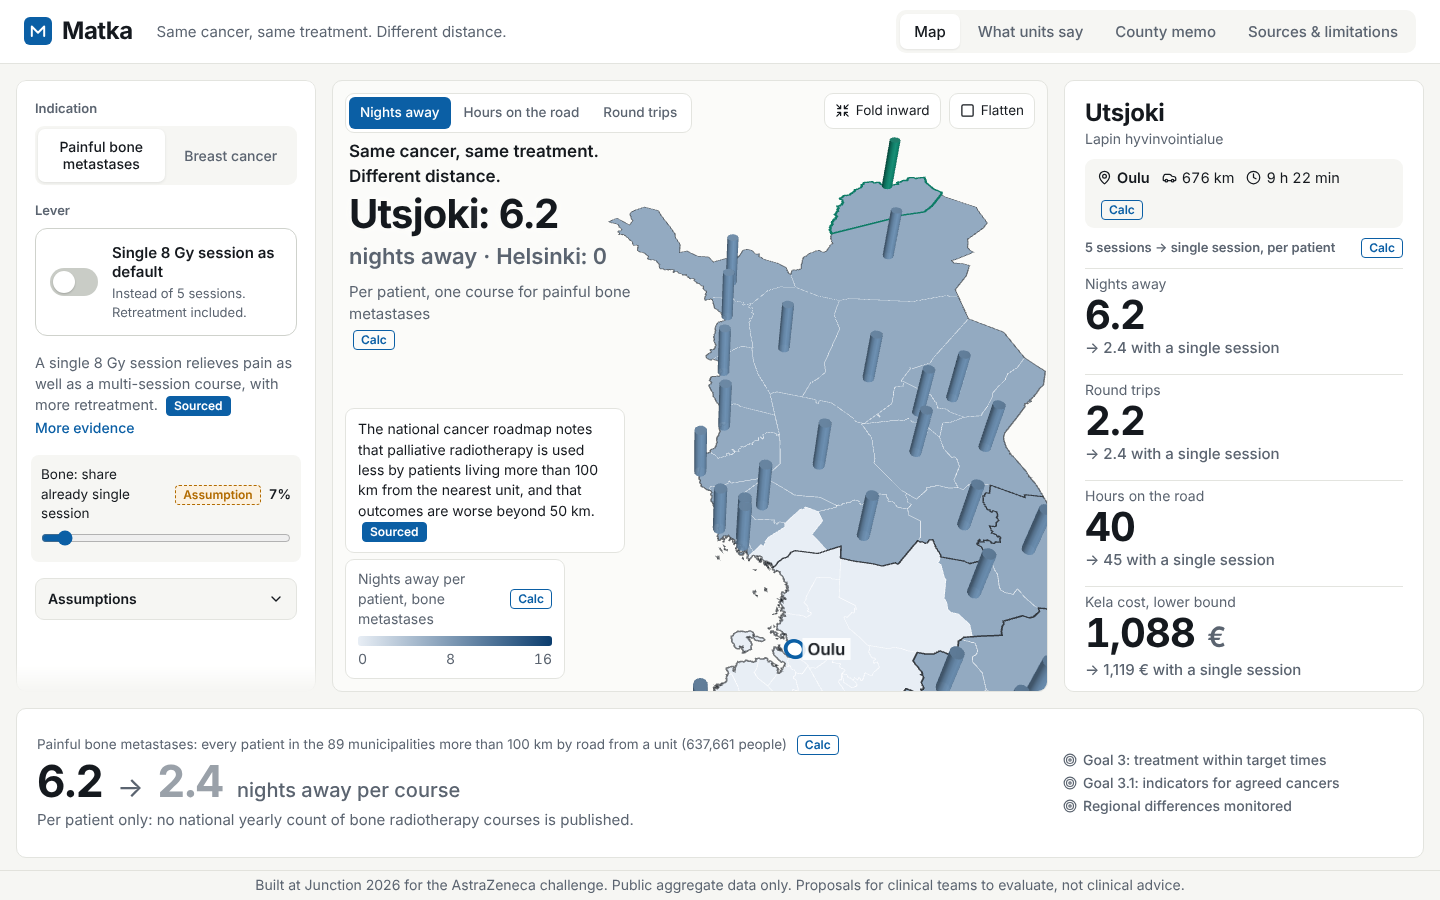
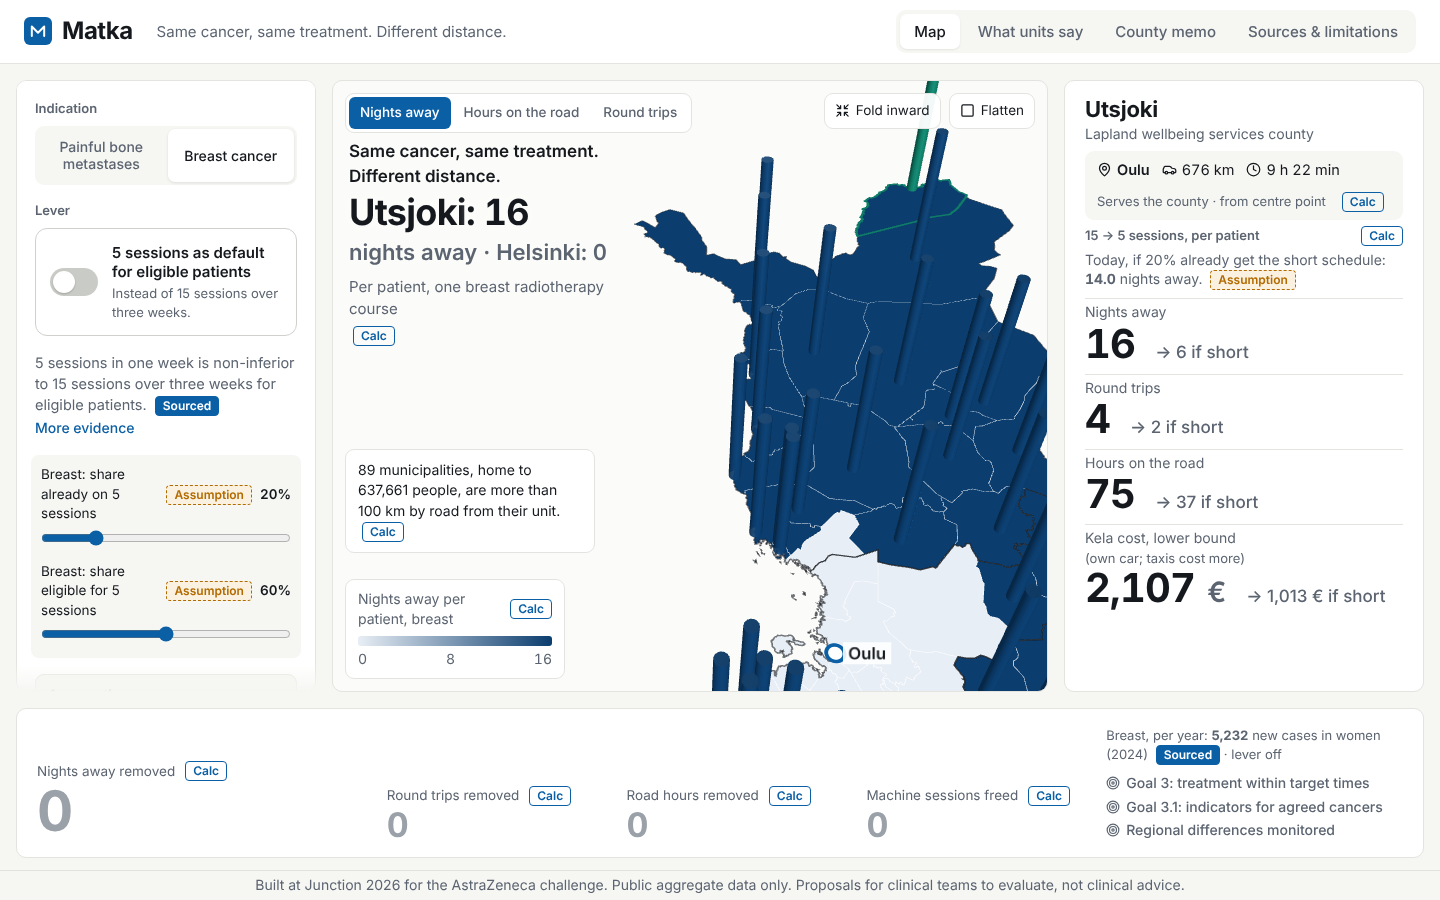
Units headline grammar; MORNING.md draft; refreshed screenshots
Claude-Session: https://claude.ai/code/session_01BVjSLe1vhsUrCMGq1JU1PS

diff --git a/src/components/UnitsTab.tsx b/src/components/UnitsTab.tsx
@@ -98,7 +98,7 @@ export function UnitsTab({ params, onParam }: { params: Params; onParam: (id: ke
         </div>
         <div className="units-headline" data-testid="units-headline">
           <h3>
-            {publishing} of {nUnits} units publish which schedule they use.
+            {publishing} of {nUnits} units {publishing === 1 ? "publishes" : "publish"} which schedule they use.
           </h3>
           <p>
             The ask: every unit publishes its schedule mix, and radiotherapy use by distance band, every year.{' '}

diff --git a/MORNING.md b/MORNING.md
@@ -1,0 +1,99 @@
+# MORNING
+
+## 1. Status
+
+Works offline: map with levers, card, totals, What units say, County memo, Sources & limitations, demo keys 0–7 and `?`.
+
+```bash
+npm ci && npm run build && npx vite preview --port 4173
+```
+
+Then open http://localhost:4173. Checks:
+
+- `npx vitest run`: 17 tests pass.
+- `.venv/bin/python -I scripts/09_check_data.py`: passes. It now re-runs the memo validator live against the current data instead of trusting the stored counts.
+- `npx playwright test tests/e2e/demo.spec.ts --trace off`: passes. It runs keys 0–7, fails on any console error or any request that leaves localhost, checks that the bone card line is not clipped, and saves screenshots to `screenshots/`. The app is ready in about 0.3 s locally.
+- Vercel: skipped. The Vercel CLI isn't installed or logged in here.
+
+**The AI steps did not run through the API.** `ANTHROPIC_API_KEY` is listed on the "makta" environment but wasn't present in this session's process, so both AI steps used the documented in-session fallback:
+
+- **Memos:** the 22 memos are the v2 in-session drafts (`data/raw/agent_memos.json`, `method: agent-written`). They pass the full validator against current data: every number traced, citations allowed, and the new audit rules below.
+- **Unit statements:** `method: agent-extracted`.
+
+To regenerate through the API once the key is present:
+
+```bash
+.venv/bin/python -I scripts/generate_memos.py
+```
+
+```bash
+.venv/bin/python -I scripts/extract_schedules.py
+```
+
+New validator rules, which apply to the API path too:
+
+- A bone sentence, or the bone proposal, may not cite the breast case tables (S33–S35).
+- No "only", "none of the units", "does not publish" and similar wording.
+- Each "within 30 days" step must be a clinical team's review or decision, never a patient-page change or a publication.
+- The memo tab shows the "numbers traced" badge only when a memo's stored `validated` flag is true, and the data check confirms that flag against a live run.
+
+## 2. Story changes
+
+- **Breast now leads.** The app opens on breast; key 3 = breast (columns rise to 15 sessions, pause, lever on); key 4 = bone; key 5 also switches back to breast, because the national totals are breast-only.
+- **Bone card line** (bone lever on, when trips don't fall): "Fewer nights away; trips about the same, because some patients need a second session."
+- **Premise check:** no unit states 5 sessions as its standard breast schedule, so the breast lever is not reframed.
+- **What units say** headline: "UNITS_X of 12 units publish(es) which schedule they use", tied to the ask to publish the schedule mix every year.
+- **Rovaniemi has no unit:** Lapland routes to OYS in Oulu (S52).
+- **Routing:**
+  - Helsinki, Uusimaa, Pirkanmaa and Lapland follow their sourced catchments.
+  - The other 222 municipalities go to the nearest unit by drive time, which is an assumption. The limitation names Kanta-Häme (split Turku 4, Lahti 4, Tampere 3, although Tays says it treats most of Kanta-Häme) and Kainuu (Oulu 5, Kuopio 2, Joensuu 1; no catchment source).
+- **Breast cases:** 5,232 new cases in women in 2024 (Finnish Cancer Registry, S33/S34). This is now shown with a Sourced badge in the totals strip. The totals use the 5,204 mainland cases.
+- **Fold inward** stays off by default.
+
+## 3. Assumptions in use
+
+| Parameter | Value |
+|---|---|
+| Commuting threshold | 100 km (framed by roadmap p. 13) |
+| Planning visit | 1 round trip, every schedule |
+| Breast: share treated with radiotherapy | 70% |
+| Breast: share eligible for 5 sessions | 60% |
+| Breast: share already on 5 sessions | 20% |
+| Bone: multi-fraction course | 5 sessions |
+| Bone: share already single session | 7% (Turku 2005–13, all courses in the last year of life, single centre) |
+
+Also assumed:
+
+- Distances run from municipality centre points.
+- Breast cases are allocated to municipalities by age-weighted female population.
+- Routing outside the sourced catchments is nearest by drive time.
+
+Sourced: 15 vs 5 sessions, single 8 Gy, retreatment 20% vs 8% (Rich 2018, S30), Kela 0.33 €/km and 20.18 €/night.
+
+## 4. Unverified
+
+- The real Finnish schedule mix (not public).
+- Kanta-Häme and Kainuu referral paths.
+- Breast radiotherapy and eligibility shares for Finland.
+- The Rich 2018 corrigendum content was not checked.
+- The roadmap's 100 km fact cites Norwegian data (Åsli 2018).
+
+## 5. Demo script (2 minutes)
+
+- **0:00 (key 0, then 1):** Finland, with the 12 units as dots. "Same cancer, same treatment. Different distance." The national roadmap (p. 13) says palliative radiotherapy is used less by patients living more than 100 km from a unit, and outcomes are worse beyond 50 km. 89 municipalities, home to 637,661 people, are more than 100 km by road from their unit.
+- **0:15 (key 2):** Utsjoki. The nearest unit is OYS in Oulu, 676 km and 9 h 22 min by road. A 15-session breast course means 16 nights away and 75 hours on the road.
+- **0:35 (key 3):** Breast, the lead lever. The columns stand at 15 sessions, then 5 sessions as default for eligible patients (whole breast or chest wall, no nodes). Utsjoki goes from 16 to 6 nights away and from 75 to 37 hours on the road. The columns shrink across the north and east while the south stays flat. FAST-Forward, 4,096 patients, 10-year follow-up: "at least as good, in one week."
+- **0:55 (key 4):** Painful bone metastases: a single 8 Gy session gives equal pain relief, with more retreatment, and the model includes it. Utsjoki goes from 6.2 to 2.4 expected nights away. "Fewer nights away; trips about the same, because some patients need a second session." The baseline is Turku: single fractions were 7% of courses in the last year of life.
+- **1:10 (key 5):** National totals, breast, per year, from 5,232 new cases in women (2024). The lever removes about 1,950 nights away, 15,900 round trips and 16,200 hours on the road, and frees 17,500 machine sessions. Goal 3: patients receive treatment within target times.
+- **1:25 (key 6):** What units say. "UNITS_X of 12 units publish which schedule they use." Most units don't publish theirs, so the current mix stays an assumption you can set. Read by AI, with verbatim quotes checked against the saved pages.
+- **1:40 (key 7):** Lapland's memo writes itself, with every number traced to a source. Its first steps are clinical-team reviews.
+- **1:55 The ask:**
+  - 5 sessions as the default for eligible breast patients, with distance named as a reason to choose it.
+  - A single 8 Gy session as the default for uncomplicated painful bone metastases.
+  - Every unit publishes its schedule mix and radiotherapy use by distance band, every year.
+
+## 6. Questions for the AstraZeneca mentor
+
+1. "A breast patient living 300 km from the unit: does she get 15 sessions or 5 today, and is distance an accepted reason for the short course?"
+2. "For painful bone metastases in someone 200 km out, how often is it a single 8 Gy in practice, and can planning and treatment happen in one visit?"
+3. "Which Goal 3 indicator would you file this under: target access times or regional equality? Would you accept a new one, travel burden per radiotherapy course by county?"
